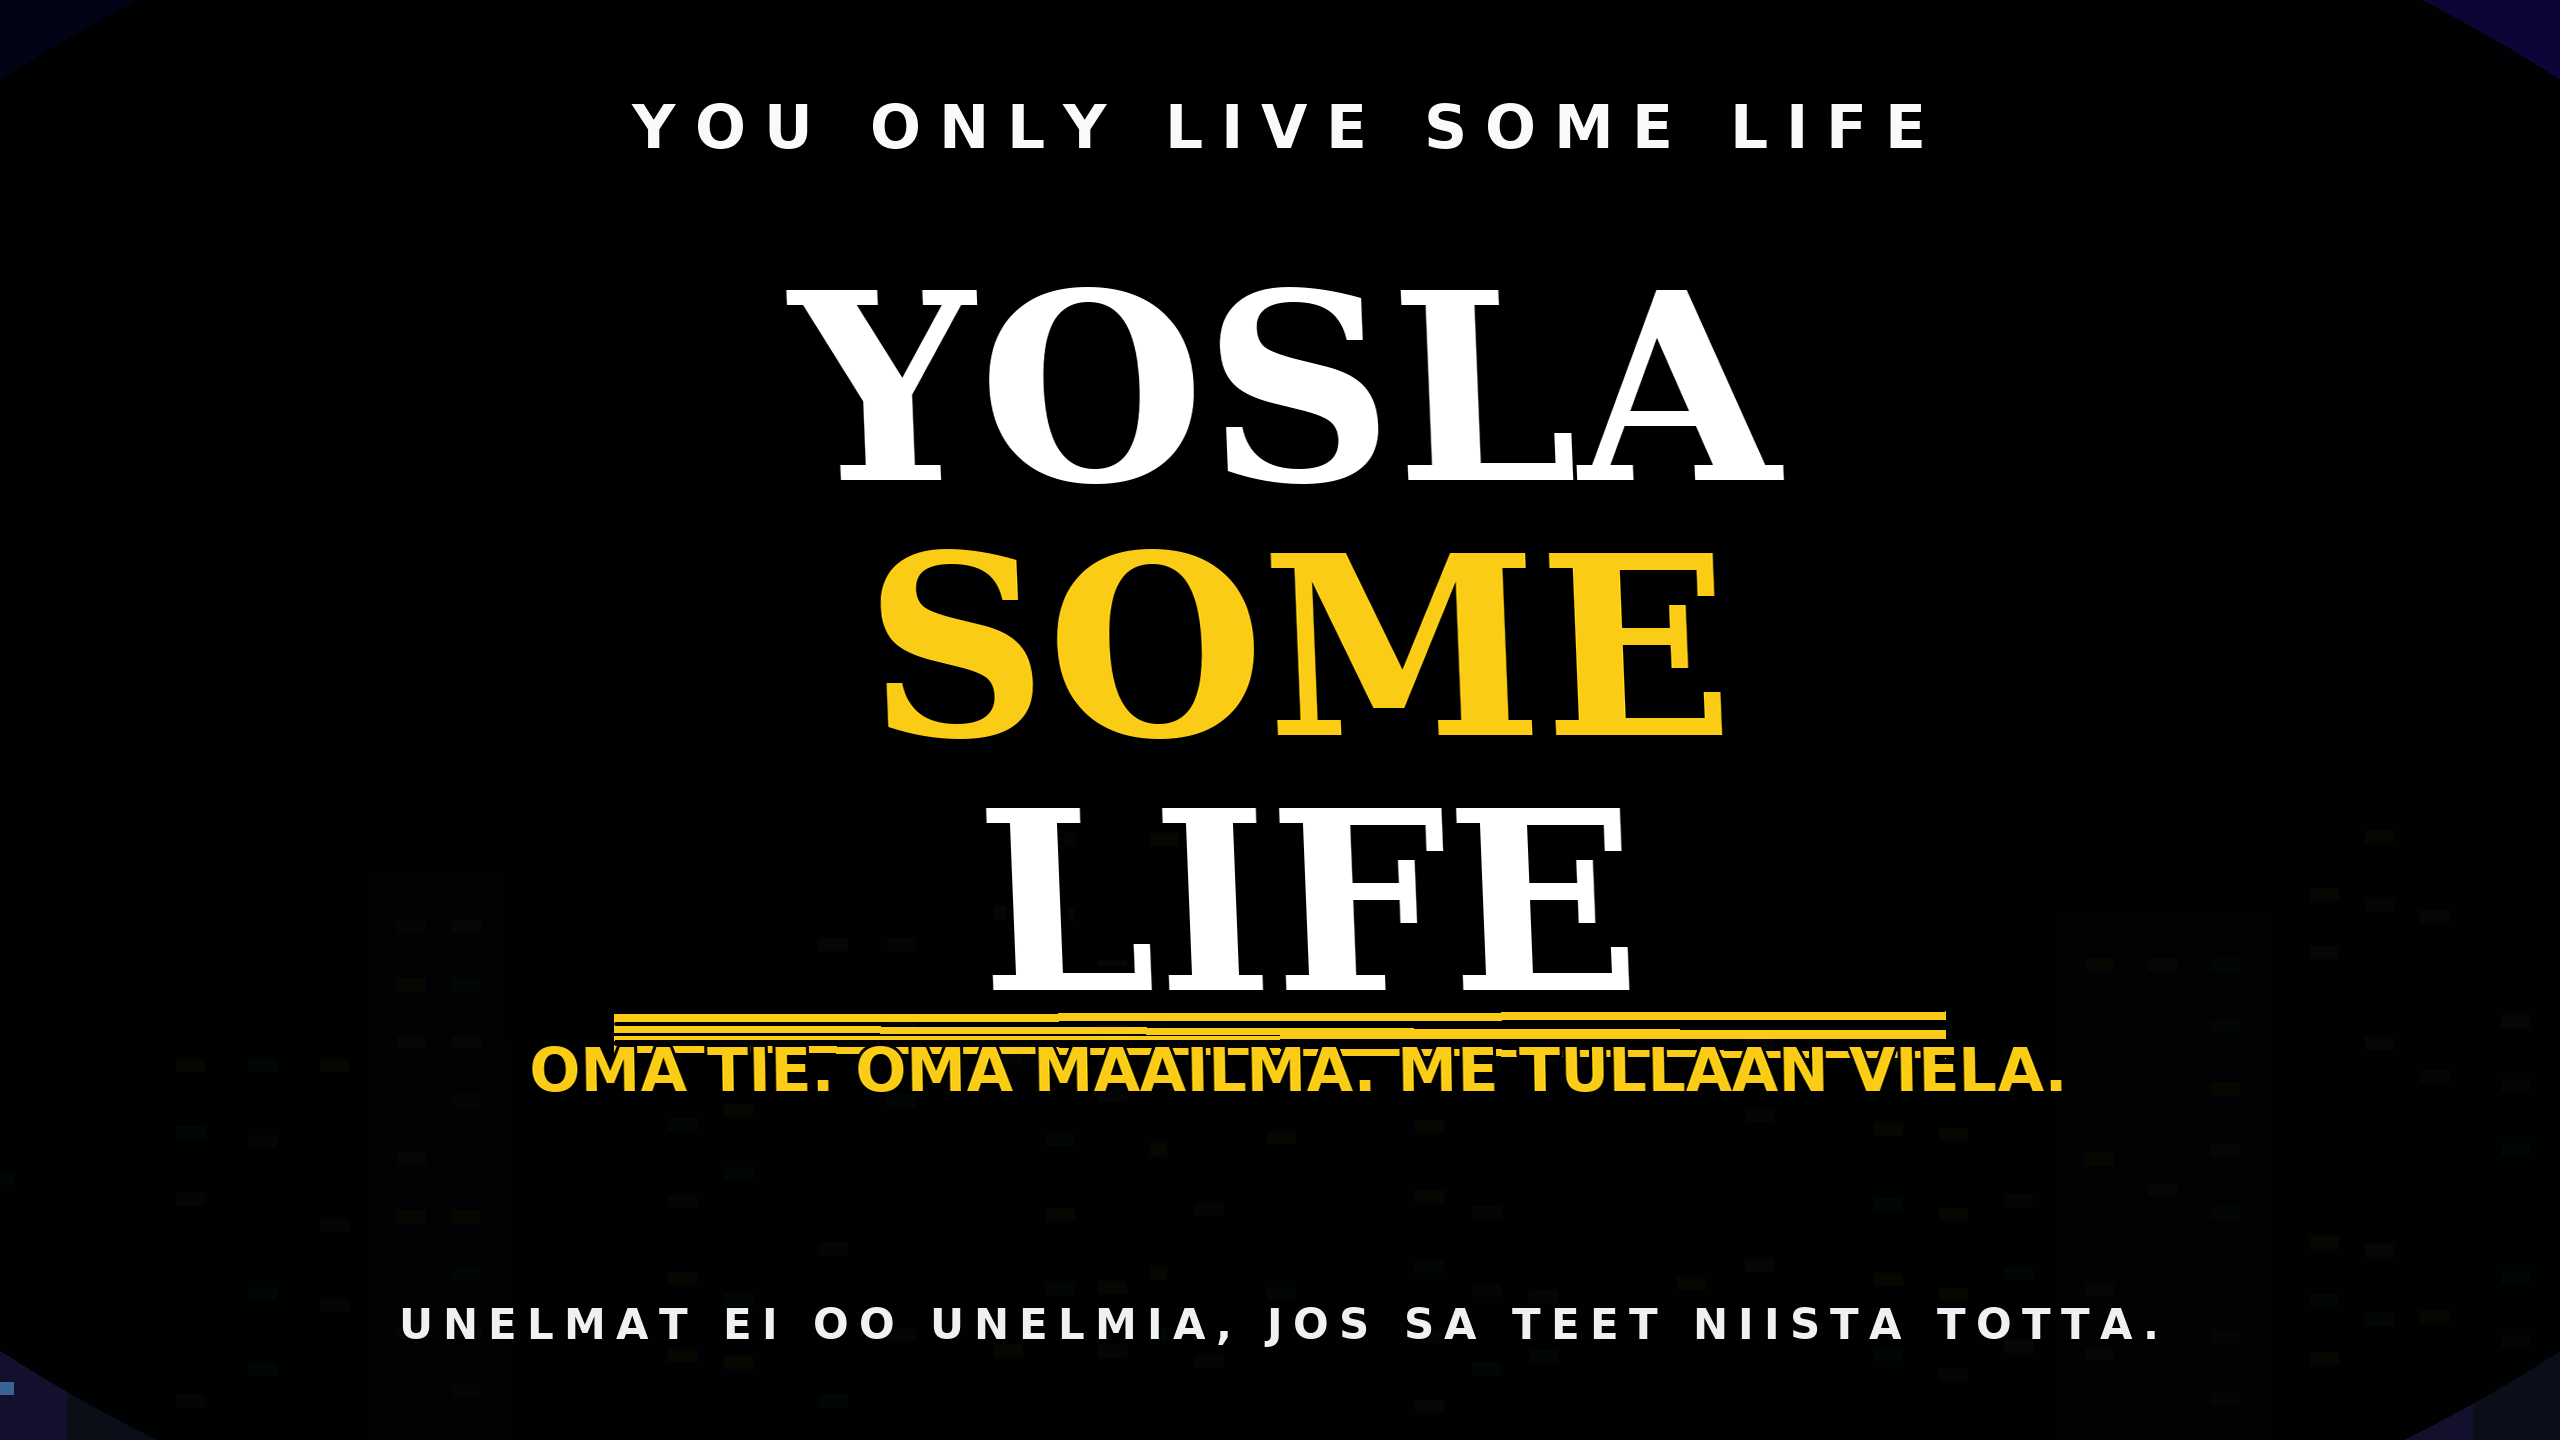
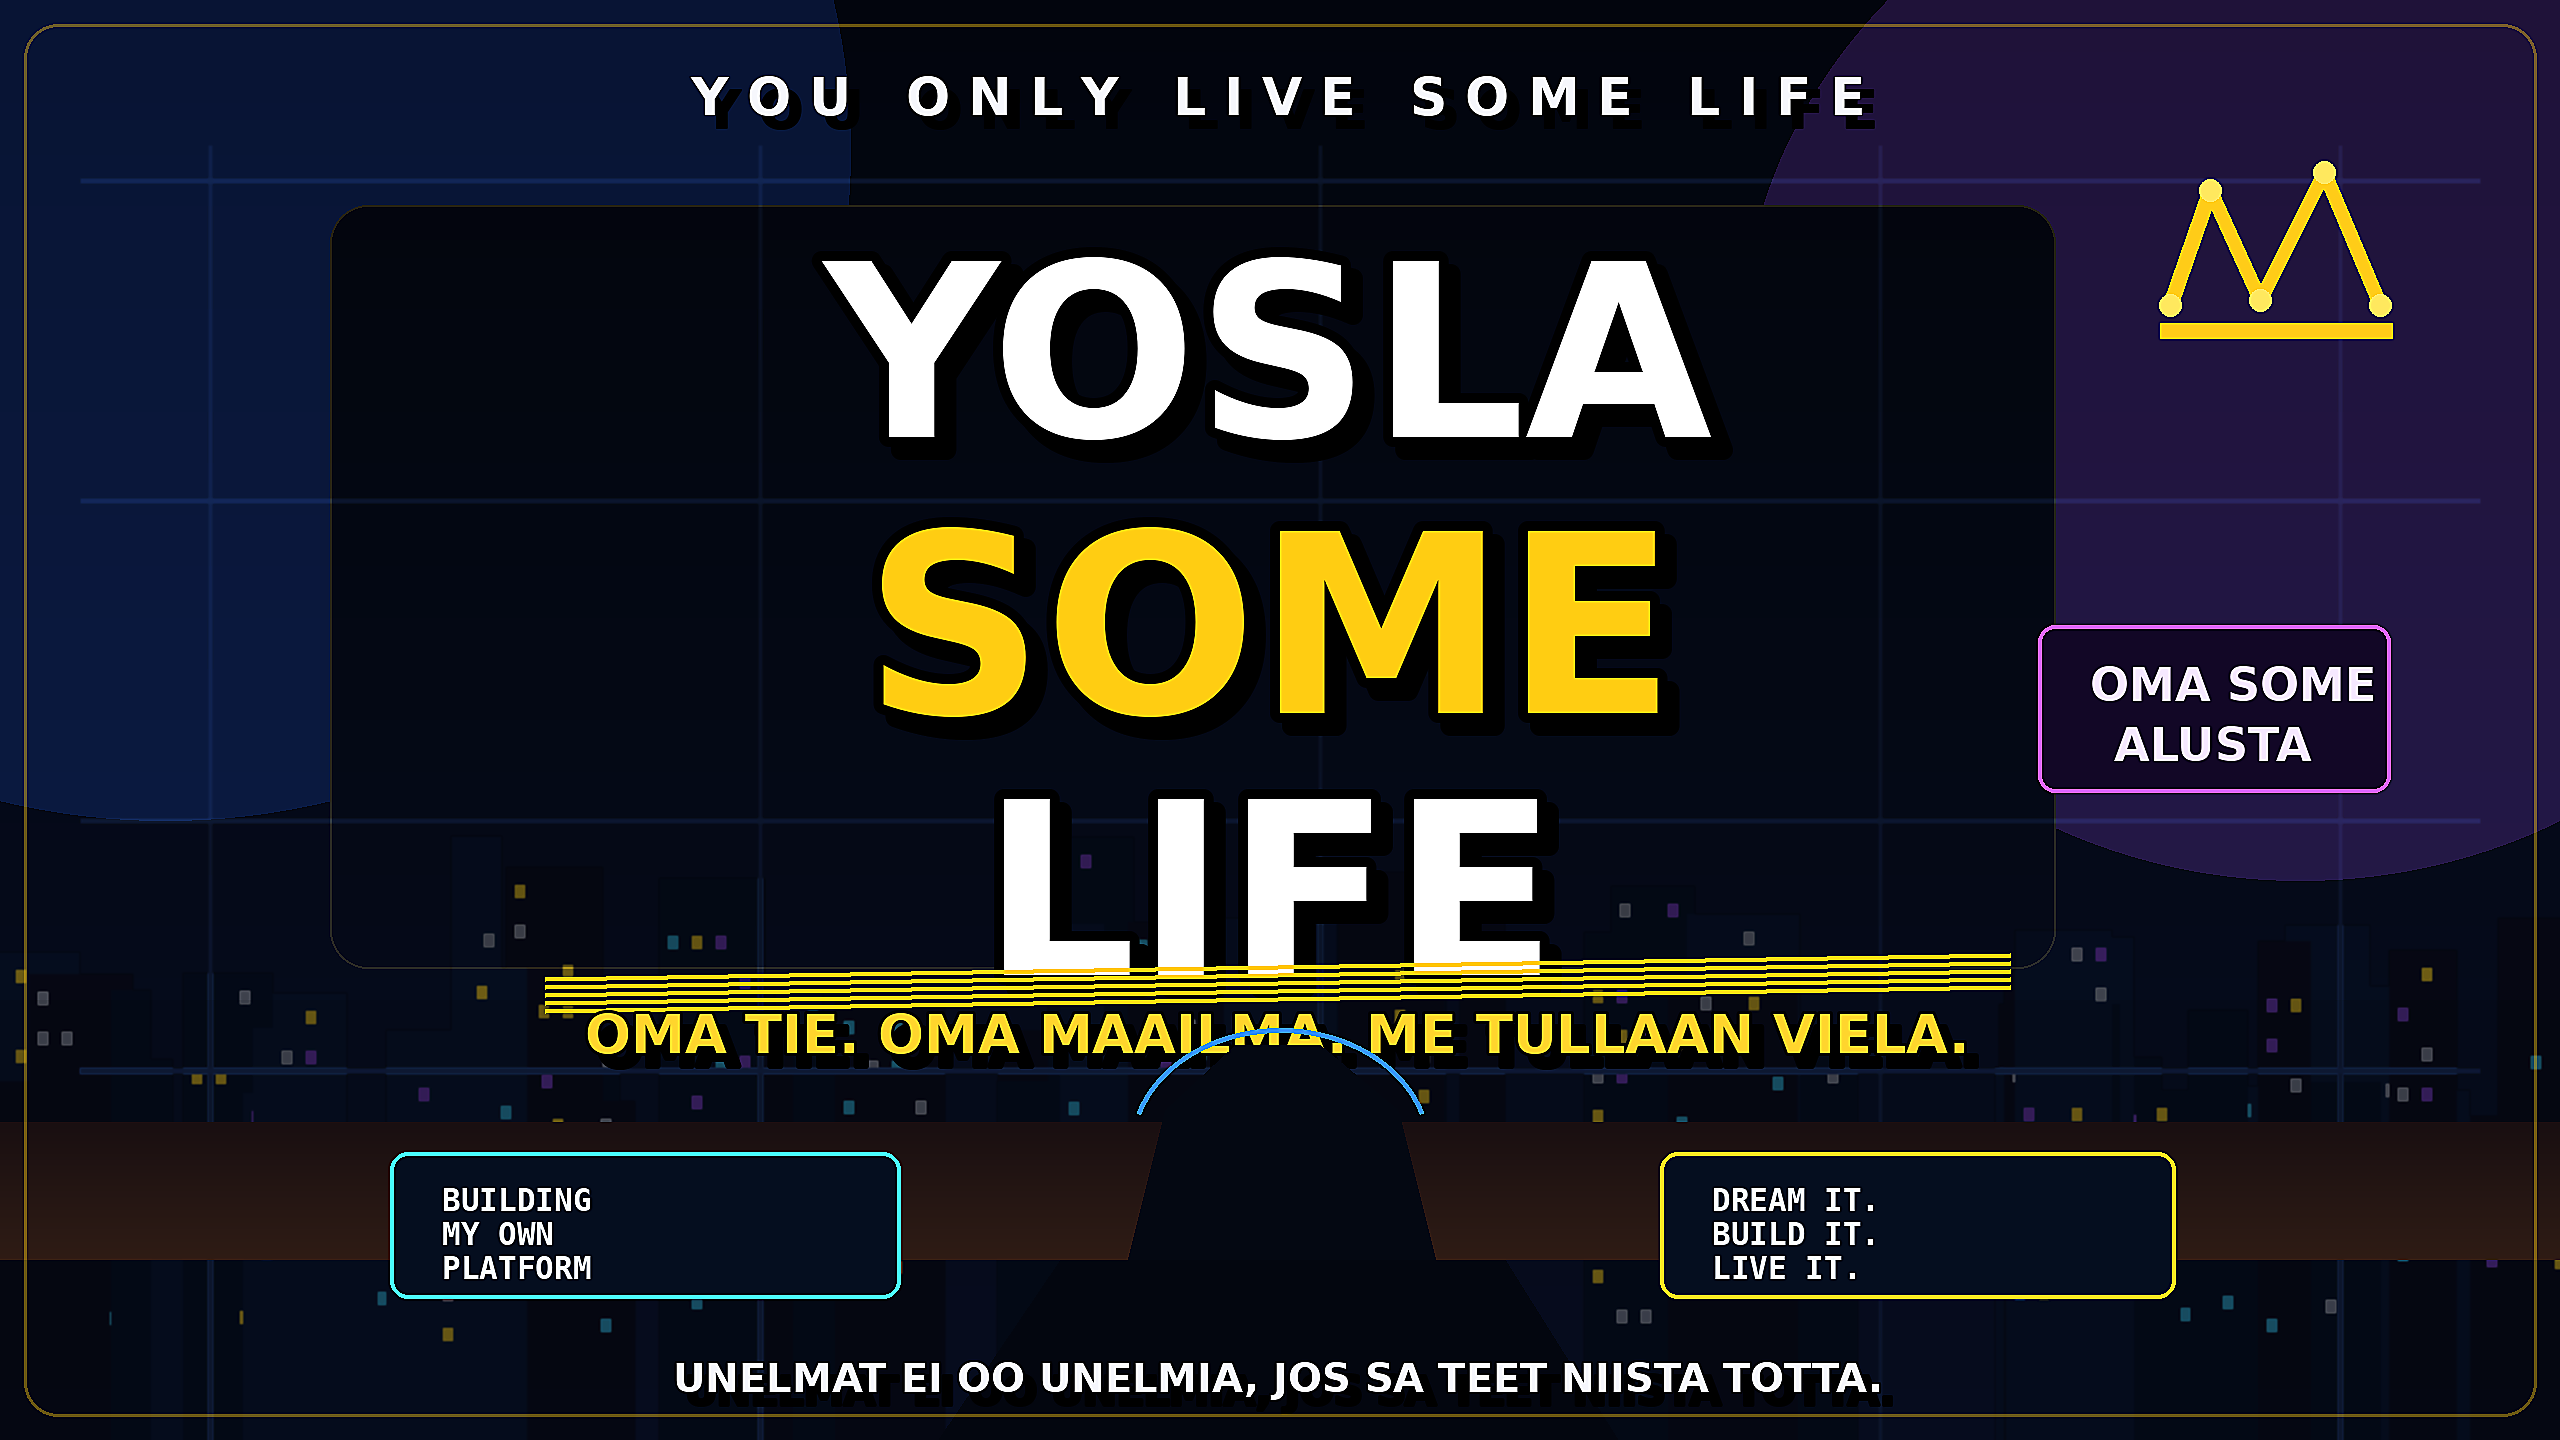
Replace landing hero with YOSLA poster

diff --git a/frontend/app/index.tsx b/frontend/app/index.tsx
@@ -16,13 +16,15 @@ function YoslaHeroImage({ isWide, label }: { isWide: boolean; label: string }) {
       alt: label,
       style: {
         width: '100%',
-        height: isWide ? 560 : 420,
+        aspectRatio: '16 / 9',
+        height: 'auto',
         objectFit: 'contain',
         display: 'block',
         borderRadius: isWide ? 20 : 16,
         marginBottom: 20,
         backgroundColor: '#020617',
         border: '1px solid rgba(250,204,21,0.22)',
+        boxShadow: '0 24px 70px rgba(14, 165, 233, 0.22), 0 0 0 1px rgba(250, 204, 21, 0.08)',
         boxSizing: 'border-box',
       },
     });
@@ -188,7 +190,7 @@ const styles = StyleSheet.create({
   },
   shell: {
     width: '100%',
-    maxWidth: 920,
+    maxWidth: 1240,
     alignSelf: 'center',
   },
   loadingContainer: {
@@ -227,7 +229,7 @@ const styles = StyleSheet.create({
     fontSize: 16,
     lineHeight: 25,
     color: '#cbd5e1',
-    maxWidth: 760,
+    maxWidth: 820,
     fontWeight: '600',
   },
   featureCard: {
@@ -352,16 +354,20 @@ const styles = StyleSheet.create({
   },
   heroImage: {
     width: '100%',
-    height: 560,
+    aspectRatio: 16 / 9,
     borderRadius: 20,
     marginBottom: 20,
     backgroundColor: '#020617',
     borderWidth: 1,
     borderColor: 'rgba(250,204,21,0.22)',
     objectFit: 'contain' as any,
+    shadowColor: '#38bdf8',
+    shadowOpacity: 0.22,
+    shadowOffset: { width: 0, height: 24 },
+    shadowRadius: 34,
+    elevation: 7,
   },
   heroImageMobile: {
-    height: 420,
     borderRadius: 16,
   },
 });
